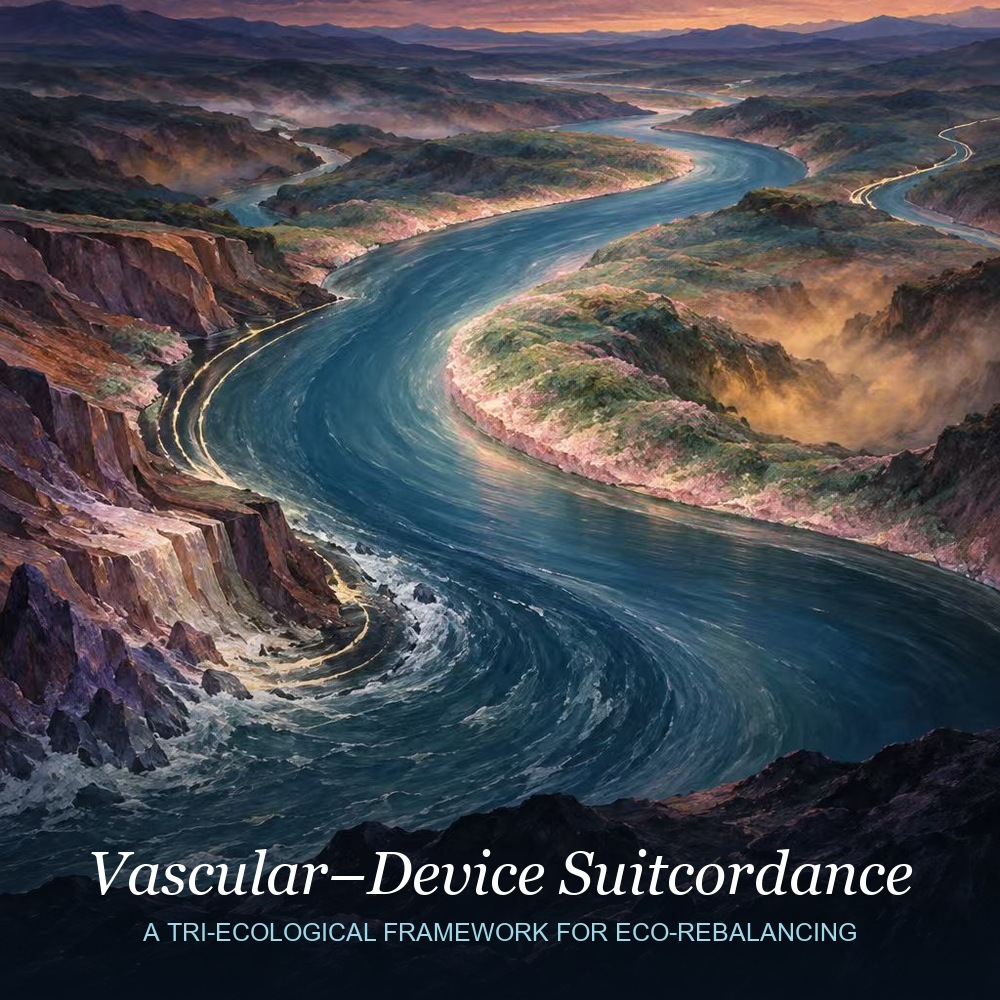
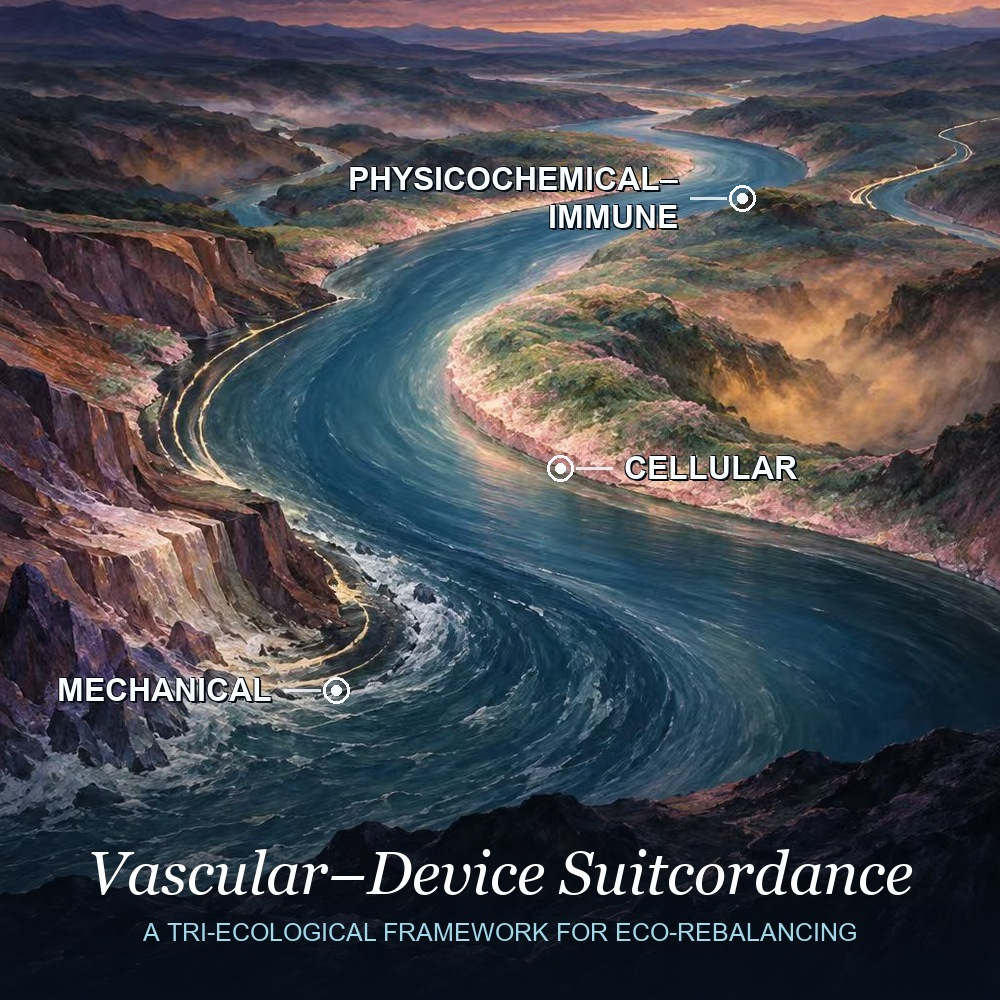
Label the three ecological balances on the river figure
Mark the mechanical, cellular and physicochemical-immune balances along
the river, as the site owner specified, and update the alt text.

diff --git a/publications/index.html b/publications/index.html
@@ -204,7 +204,7 @@
       <h2 id="selected-title">Selected publications</h2>
       <div class="pub-list">
         <article>
-          <img src="../trends-molecular-medicine-suitcordance.jpg" alt="River meander in balance, the cover concept for the tri-ecological framework of vascular-device suitcordance" width="150" height="150" loading="lazy">
+          <img src="../trends-molecular-medicine-suitcordance.jpg" alt="A river in balance, annotated with the three ecological balances of vascular-device suitcordance: mechanical, cellular and physicochemical-immune" width="150" height="150" loading="lazy">
           <div><h3>Vascular&ndash;Device Suitcordance: A Tri-Ecological Framework for Eco-Rebalancing</h3><p class="authors"><strong>Lingsen You</strong>, &hellip;, Junbo Ge</p><p class="venue"><cite>Trends in Molecular Medicine</cite> &middot; Cell Press &middot; accepted 14 September 2026</p><p class="summary">An ecological reading of device&ndash;vessel suitcordance: three balances that an implanted device perturbs and has to restore. In production; the DOI will be added once the article is online.</p></div>
         </article>
         <article>

diff --git a/index.html b/index.html
@@ -590,7 +590,7 @@
 
             <div class="pub-item">
                 <div class="pub-img-box">
-                    <img src="trends-molecular-medicine-suitcordance.jpg" alt="River meander in balance, the cover concept for the tri-ecological framework of vascular-device suitcordance" class="pub-img" loading="lazy" decoding="async">
+                    <img src="trends-molecular-medicine-suitcordance.jpg" alt="A river in balance, annotated with the three ecological balances of vascular-device suitcordance: mechanical, cellular and physicochemical-immune" class="pub-img" loading="lazy" decoding="async">
                 </div>
                 <div class="pub-details">
                     <span class="pub-title">Vascular&ndash;Device Suitcordance: A Tri-Ecological Framework for Eco-Rebalancing</span>
